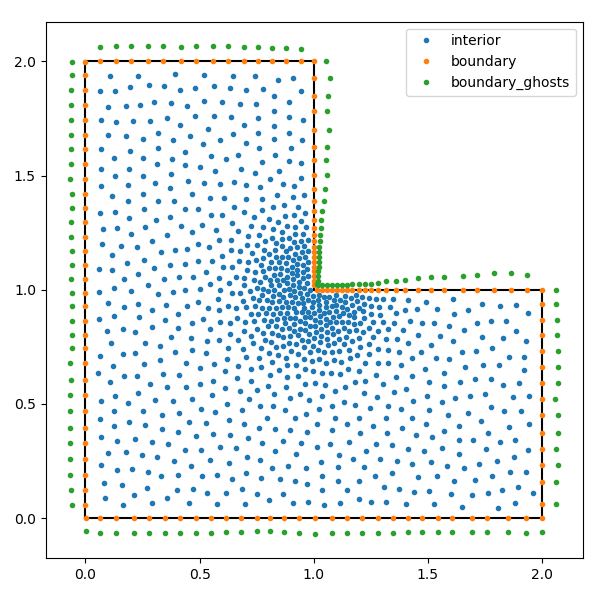
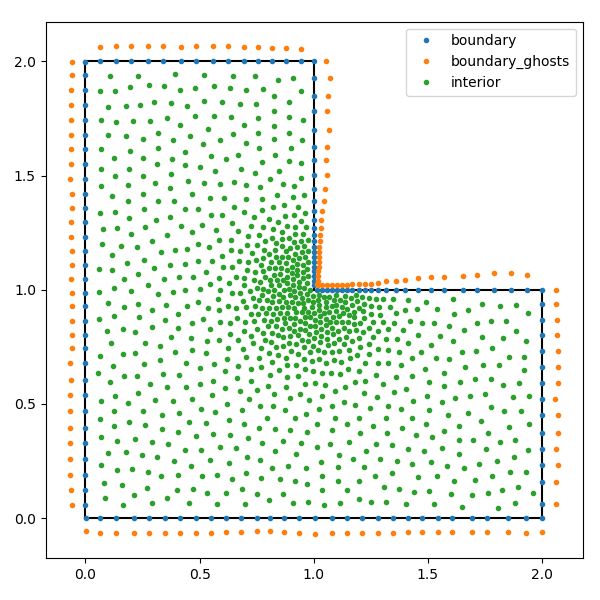
made error more informative for rbf.fd.weights. No longer create normal vectors for ghosts

diff --git a/rbf/nodes.py b/rbf/nodes.py
@@ -296,13 +296,12 @@ def _form_normal_vectors(smpid,vert,smp,indices):
   return normals
 
   
-def _form_ghost_nodes(nodes,smpid,vert,smp,indices,
-                      boundary_groups_with_ghosts):      
+def _append_ghost_nodes(nodes,smpid,vert,smp,indices,
+                        boundary_groups_with_ghosts):      
   '''
   add ghost nodes to the node set
   '''
   out_nodes = nodes.copy()
-  out_smpid = smpid.copy()
   out_indices = indices.copy()
 
   # get the normal vectors for each simplex  
@@ -326,14 +325,13 @@ def _form_ghost_nodes(nodes,smpid,vert,smp,indices,
 
     # append the ghost nodes to the output
     out_nodes = np.vstack((out_nodes,ghosts))
-    # record the simplex that each ghost node is associated with
-    out_smpid = np.hstack((out_smpid,smpid[idx]))
+
     # record the ghost node indices for this group
     start = out_nodes.shape[0] - ghosts.shape[0] 
     stop = out_nodes.shape[0] 
     out_indices[group_name + '_ghosts'] = np.arange(start,stop)
 
-  return out_nodes, out_smpid, out_indices
+  return out_nodes, out_indices
   
 
 def _rejection_sampling_nodes(N, vert, smp, rho=None, max_sample_size=1000000):
@@ -523,30 +521,30 @@ def min_energy_nodes(N,vert,smp,
                                       delta=delta,bound_force=bound_force)
 
   logger.debug('snapping nodes to boundary') 
-  nodes,smpid = _snap_to_boundary(nodes,vert,smp,delta=0.5)
+  nodes, smpid = _snap_to_boundary(nodes,vert,smp,delta=0.5)
 
   # get the indices of nodes belonging to each group
   logger.debug('assigning nodes to groups') 
   indices = _form_node_groups(smpid,boundary_groups) 
 
+  # form the normal vectors for the boundary groups
+  logger.debug('creating normal vectors for boundary nodes')
+  normals = _form_normal_vectors(smpid,vert,smp,indices)
+
   # form ghost nodes for the specified groups
   if boundary_groups_with_ghosts:
     logger.debug('creating ghost nodes for groups: %s' % 
                  ', '.join(boundary_groups_with_ghosts))
-    nodes,smpid,indices = _form_ghost_nodes(
-                            nodes,smpid,vert,smp,indices,
-                            boundary_groups_with_ghosts)
-
-  # form the normal vectors for the boundary groups
-  logger.debug('creating normal vectors for boundary nodes')
-  normals = _form_normal_vectors(smpid,vert,smp,indices)
+    nodes, indices = _append_ghost_nodes(
+                       nodes,smpid,vert,smp,indices,
+                       boundary_groups_with_ghosts)
   
   # sort `nodes` so that spatially adjacent nodes are close together
   # in memory. Update `indices` so that it is still pointing to the
   # same nodes
   logger.debug('sorting nodes so that neighboring nodes are close in '
                'memory') 
-  nodes,indices = _sort_nodes(nodes,indices)
+  nodes, indices = _sort_nodes(nodes,indices)
 
   logger.debug('finished generating %s nodes' % nodes.shape[0])
   return nodes, indices, normals

diff --git a/rbf/fd.py b/rbf/fd.py
@@ -192,9 +192,10 @@ def weights(x,s,diffs,coeffs=None,
   except np.linalg.LinAlgError:
     raise np.linalg.LinAlgError(
       'An error was raised while computing the RBF-FD weights at '
-      'point %s. This may be due to a stencil with duplicate or '
-      'collinear points. The stencil contains the following '
-      'points:\n%s' % (x,s))
+      'point %s with the RBF %s and the polynomial order %s. This '
+      'may be due to a stencil with duplicate or collinear points. '
+      'The stencil contains the following points:\n%s' % 
+      (x, basis, order, s))
 
 
 def weight_matrix(x,p,diffs,coeffs=None,

diff --git a/docs/scripts/fd.f.py b/docs/scripts/fd.f.py
@@ -67,7 +67,7 @@ def density_func(x):
 # generates the domain according to topo_func 
 vert,smp = topography(topo_func,[-1.3,1.3],[-1.3,1.3],1.0,n=60)
 # number of nodes 
-N = 3000
+N = 30000
 # size of RBF-FD stencils
 n_pre = 15
 n_full = 50
